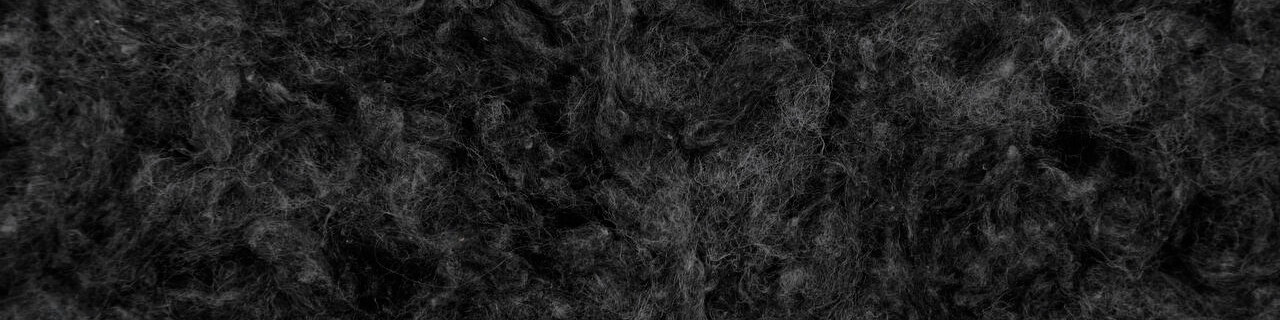
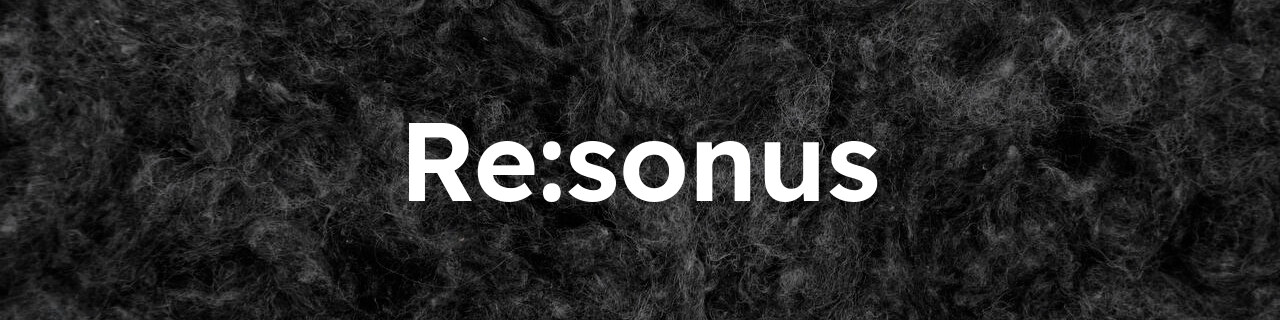
Add company description and titled hero to org profile
Render the Re:sonus title into the hero banner in Lexend SemiBold and
fill the profile README with a description from resonus.cz.

Changed region(s): [[0.3125, 0.375, 0.6875, 0.625]]

diff --git a/profile/README.md b/profile/README.md
@@ -1,12 +1,6 @@
 <p align="center">
-  <img src="assets/hero.jpg" alt="Close-up of a dark porous fibrous sound-absorbing material">
+  <img src="assets/hero.jpg" alt="Re:sonus, written over a close-up of a dark porous fibrous sound-absorbing material">
 </p>
-
-<p align="center">
-  <img src="assets/resonus-icon.png" alt="Re:sonus logo" width="96">
-</p>
-
-<h1 align="center">Re:sonus</h1>
 
 <p align="center">
   <strong>Spaces that reflect your vision. Materials you can hear.</strong><br>
